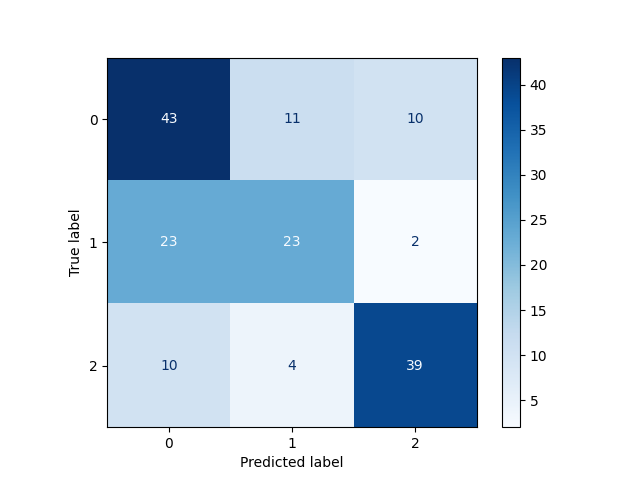
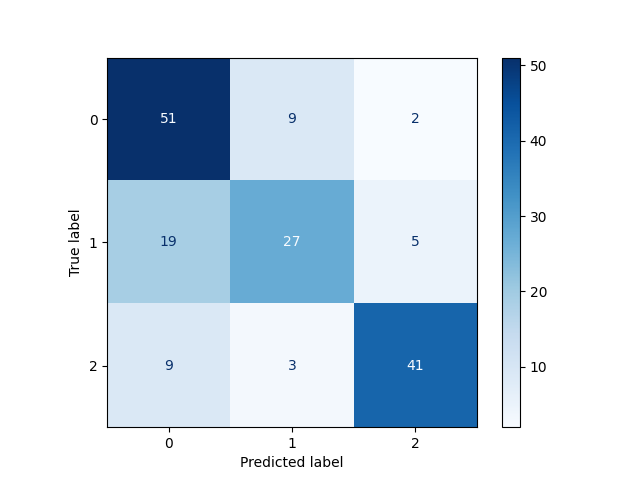
minor changes, readme update

diff --git a/eval_scripts/error_distribution_analysis.py b/eval_scripts/error_distribution_analysis.py
@@ -44,6 +44,13 @@ EVAL_DIR = Path('eval_results')
 EVAL_DIR.mkdir(parents=True, exist_ok=True)
 
 def main():
+    mode = ''
+    while mode not in ('full', 'select'):
+        mode = input(
+            "Average Prediction line mode - 'full' or 'select' (MMSE >= 12 only)? "
+        ).strip().lower()
+    select_mode = mode == 'select'
+
     print("Loading test data...")
 
     require_files([
@@ -227,9 +234,17 @@ def main():
              label='Perfect Prediction (y=x)', zorder=100)
 
     # calc and plot binned avg preds
-    sort_idx = np.argsort(all_true)
-    sorted_true = all_true[sort_idx]
-    sorted_pred = all_pred[sort_idx]
+    if select_mode:
+        red_mask = all_true >= 12
+        red_true = all_true[red_mask]
+        red_pred = all_pred[red_mask]
+    else:
+        red_true = all_true
+        red_pred = all_pred
+
+    sort_idx = np.argsort(red_true)
+    sorted_true = red_true[sort_idx]
+    sorted_pred = red_pred[sort_idx]
 
     n_bins = 15
     bin_edges = np.linspace(sorted_true.min(), sorted_true.max(), n_bins + 1)

diff --git a/README.md b/README.md
@@ -112,7 +112,7 @@ when both labels are present.
 
 The local, Git-ignored split metadata references seven corpora:
 
-| Corpus key | Language in current metadata | Primary labels used |
+| Corpus key | Language in current /metadata | Primary labels used |
 |---|---|---|
 | `ADReSS-IS2020` | English | MMSE, diagnosis |
 | `ADReSSo21` | English | MMSE, diagnosis |
